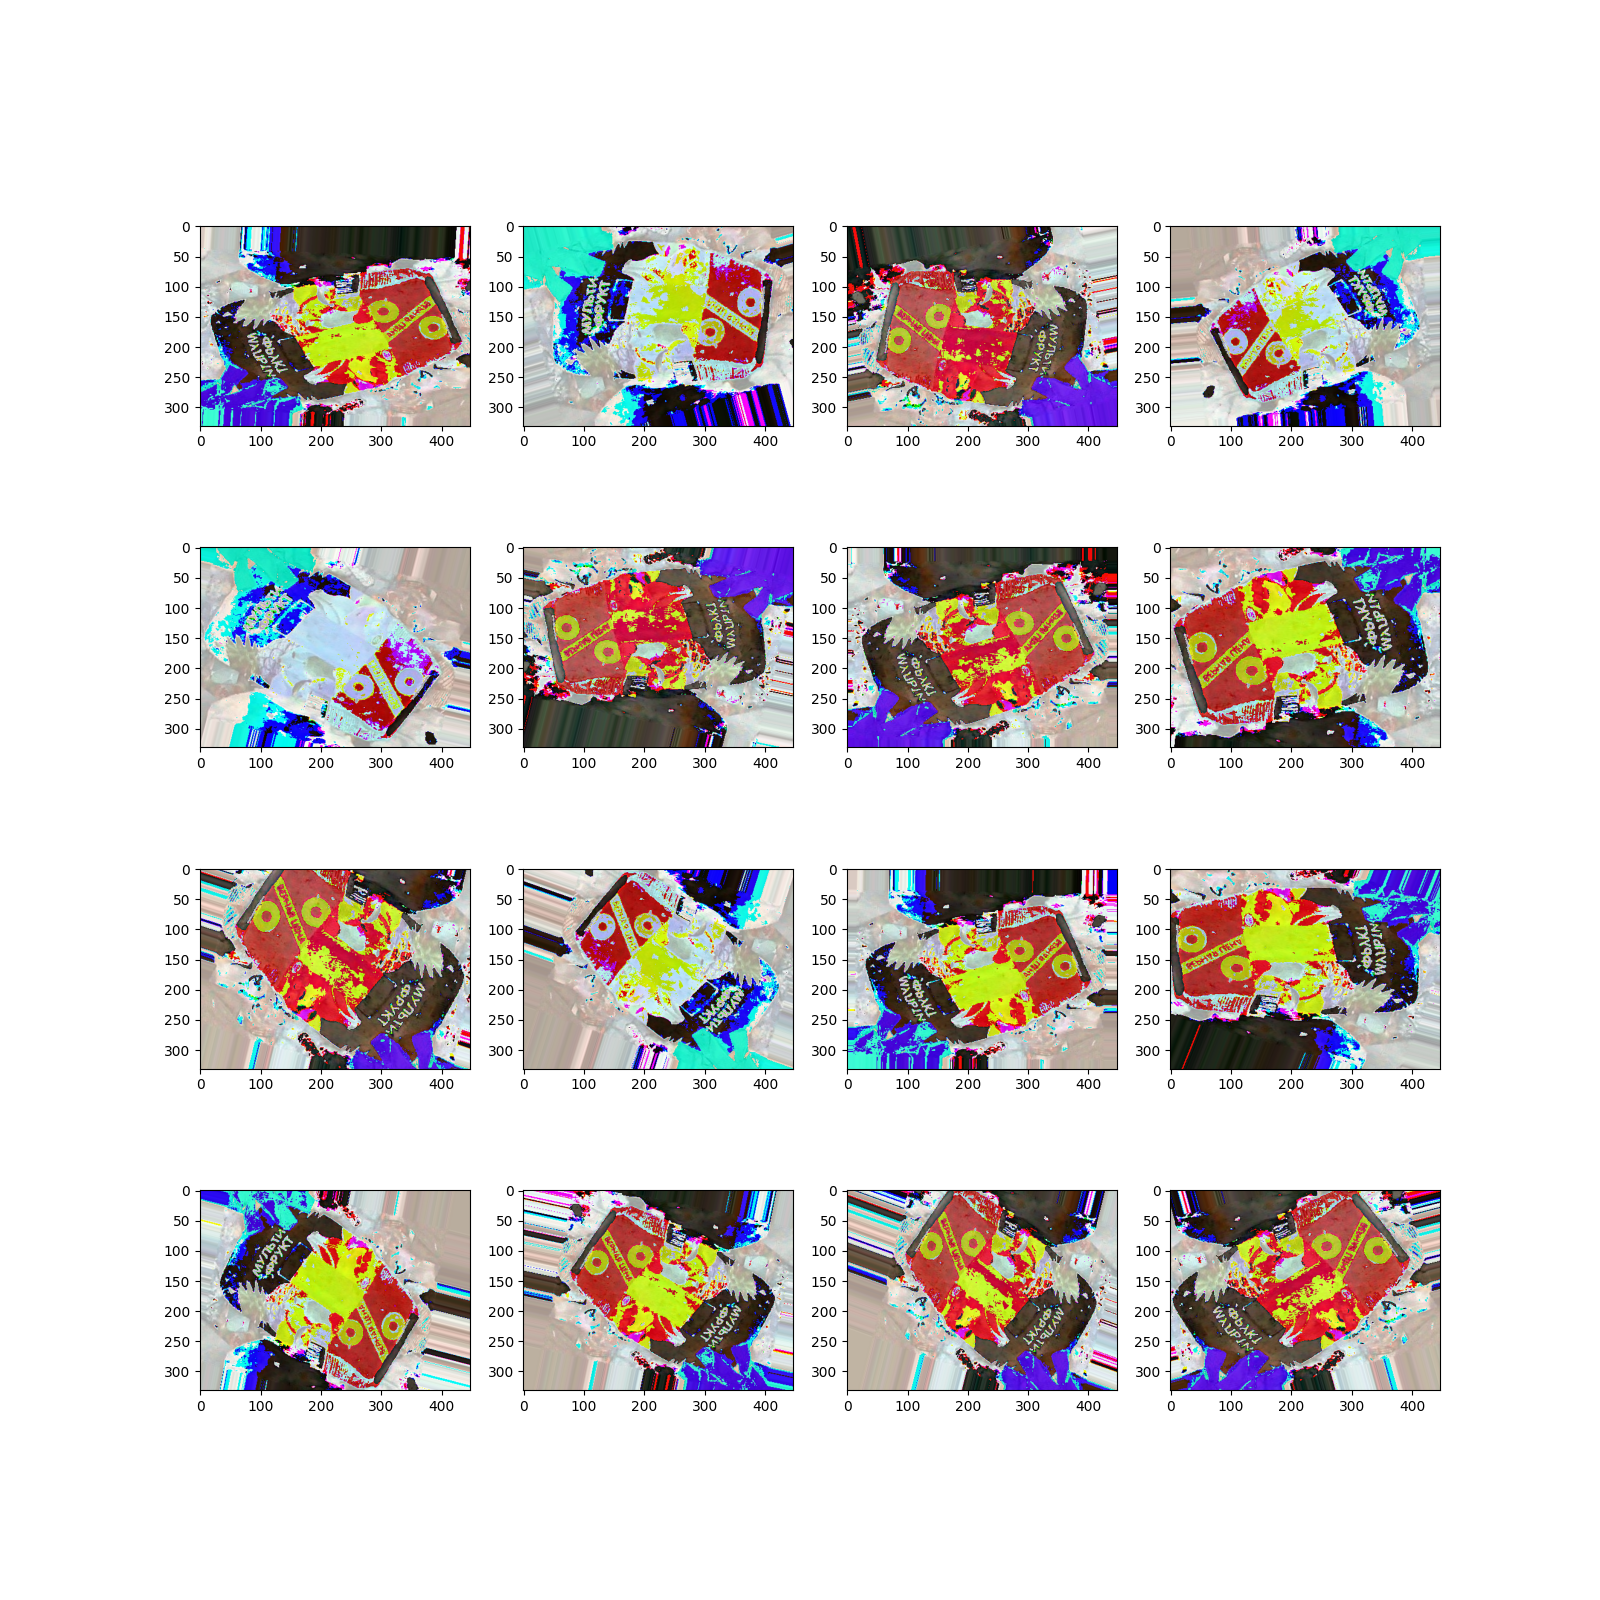
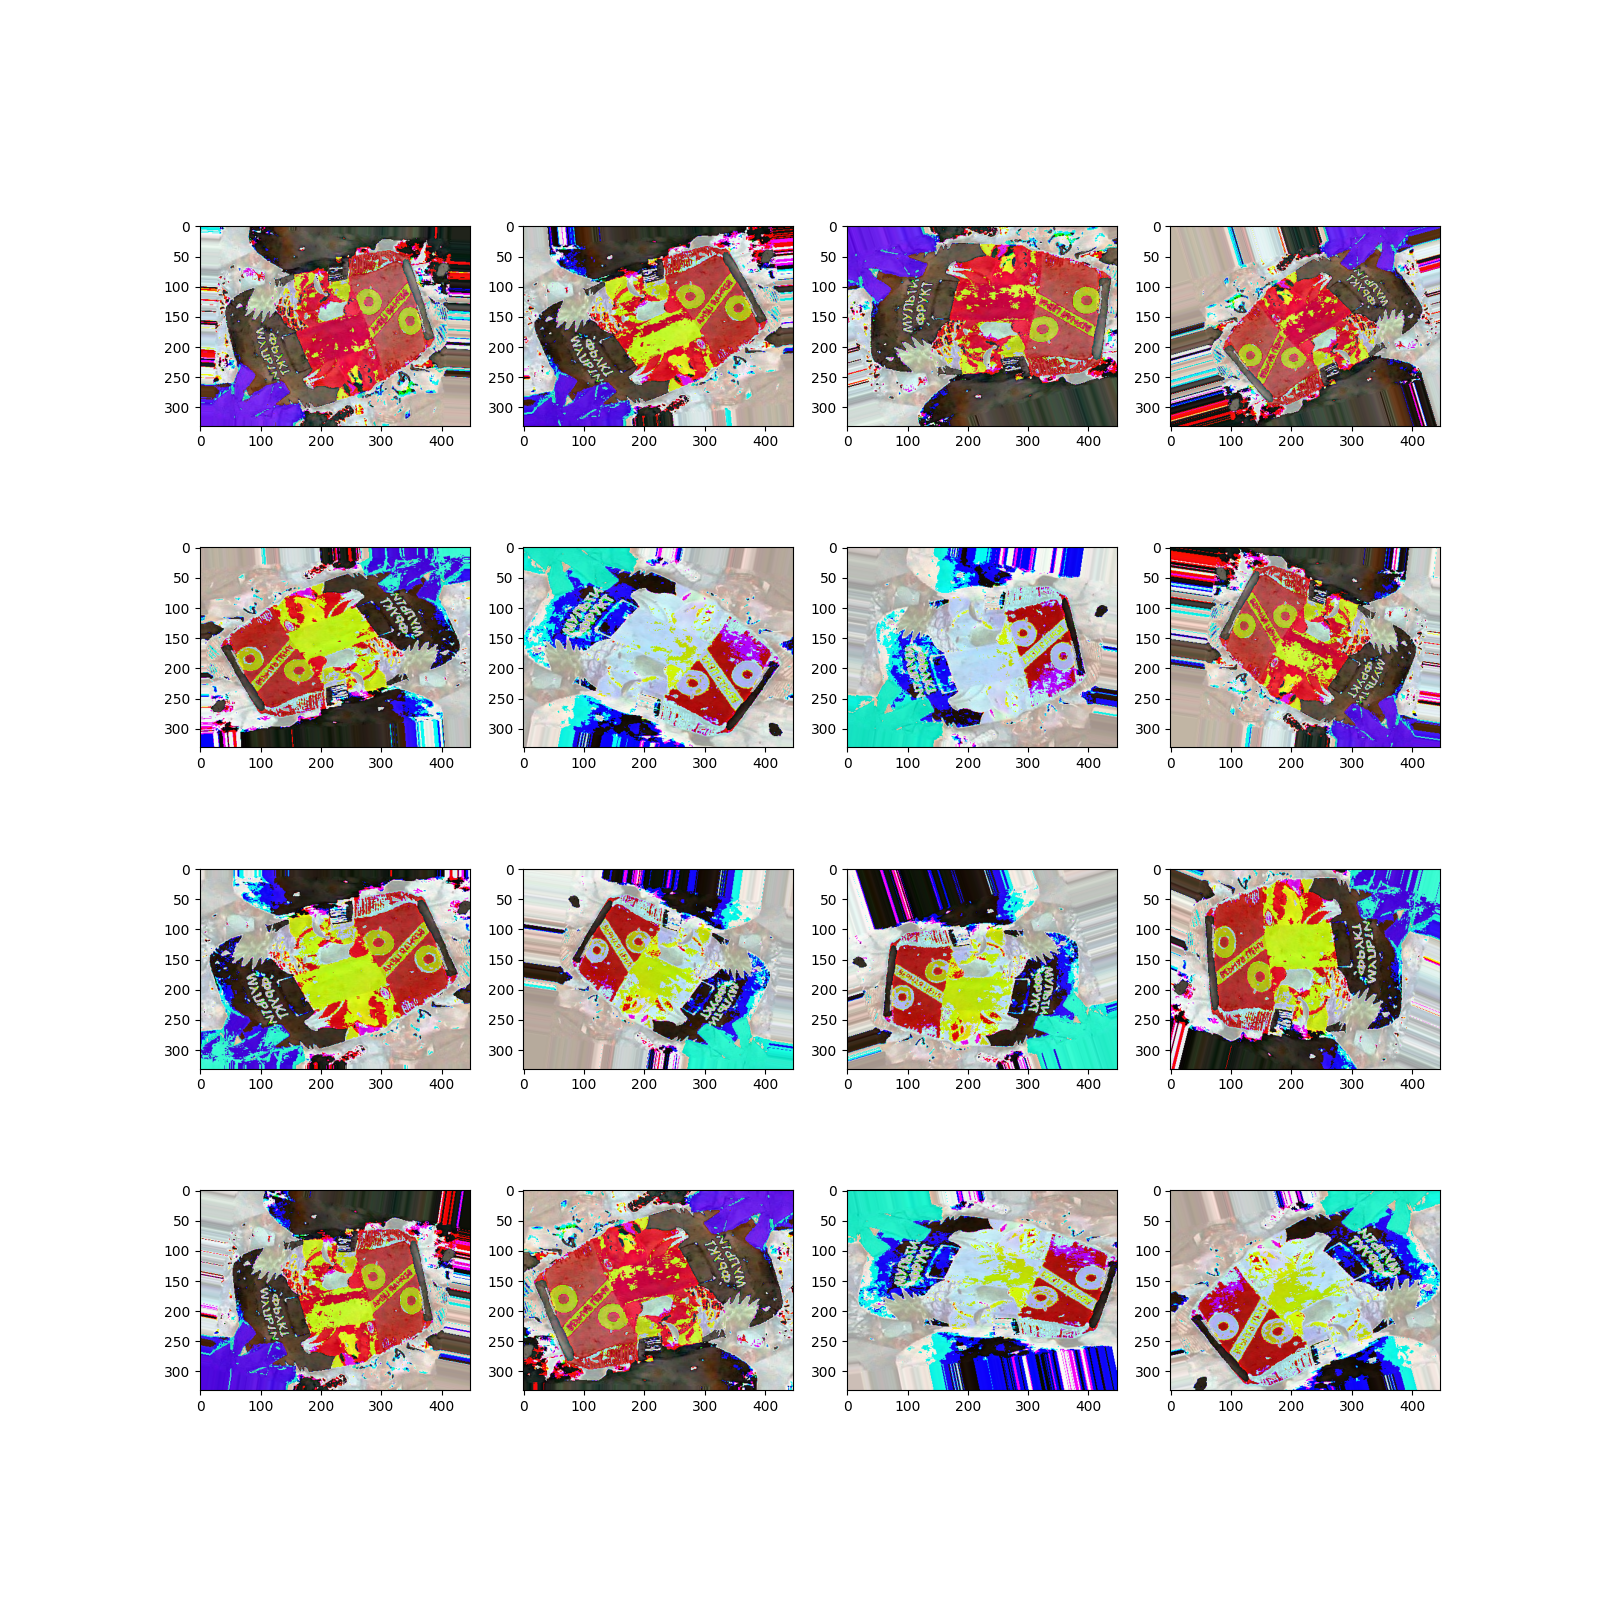
added runs, updated readme

diff --git a/README.md b/README.md
@@ -6,58 +6,128 @@ This assignment is the final project on the Visual Analytics course on the elect
 
 The code was created by me. However, code provided throughout the course has been reused and adapted for this project. Furthermore, some code from [WEBSITE] has been reused. 
 
-### Project description
-
-This project aims to apply the tools and methods taught in the course in a waste-recycling scenario. More specifically, a dataset from Kaggle, 'WaRP' (Waste Recycling Plant) has been used. I thought it would be interesting to apply image classification and computer vision tools to a real life problem to see if it could be a possible method for optimizing waste recycling. **skriv mere her, det er dårligt** .. 
-
-### Contents
-
-LAV PÆN OVERSIGT OVER REPO!!
+### Repository description
+This project aims to apply the tools and methods acquired in the Visual Analytics course to create a classifier which can distinguish between four different types of waste. The repository contains code to run a classifier using different levels and methods of augmentation as well as balanced vs unbalanced data. The motivation behind the project was due to an interest in applying image classification and computer vision to a real life problem such as waste recyling.
 
 
 ### Methods and contents
 
+#### Contents
+| Folder/File  | Contents| Description |
+| :---:   | :---: | :--- |
+| ```out```     |```balanced``` ```imbalanced``` | Contains the output of running the **classify.py** script. Main folder contains examples of augmented images at different levels, where the two subfolders contain the history plots and classification reports for running the model with different levels of augmentation. |
+| ```src```   | **classify.py** **data.py** **utils.py**| Contains the Python scripts to run a classifier on the WaRP dataset. **data.py** contains code to load, prepare and augment the data (using Keras ImageDataGenerator). **classify.py** contains code to train a classifier on the WaRP data. **utils.py** contains functions to plot model history and examples of augmented images.|
+|README.md| README.md | Description of the repository and how to use it. |
+|requirements.txt| requirements.txt| Packages required to run the code.|
+|run.sh| run.sh| Bash script for running the **classify.py** script, with already defined arguments.|
+|setup.sh|setup.sh|Bash script for setting up virtual environment for project|
+
 #### Data
 
 ##### Description of data
-The WaRP data was found on Kaggle, **insert link** The image classification data was used for this assignment. The data consists of 8823 images for training and **test_images** for testing. The original data contains 28 different classes, with 17 different categories of plastic bottles, three different types of glass bottles, four different types of detergent and two different types of cardboards. I thought it would be more useful in a real-life situation to use more *overall** classes for the waste. Thus, I decided to create 4 classes consisting of the 28 original subclasses. The contents of the classes are as follows:
+The WaRP data was found on Kaggle (https://www.kaggle.com/datasets/parohod/warp-waste-recycling-plant-dataset) The Kaggle page contains data for image segmentation, detection or classification. The classification data was used for this project. The data consists of *8823* color images for training and *1523* color images for testing. The original data contains 28 different classes of waste, with 17 different categories of plastic bottles, three different types of glass bottles, four different types of detergent, two different types of cardboard as well as cans and canisters. I thought it would be more useful in a real-life scenario to use more general and broad classes for the waste. Thus, I decided to create four new classes by merging the 28 original subclasses. The contents of the classes are as follows:
 
-**Cardboard**
-- juice-cardboard
-- milk-cardboard
+| New class  | Previous subclasses| Number of merged subclasses|
+| :---:   | :---: |  :---: |
+|Metal| *cans* | 1|
+|Cardboard|*juice-cardboard*, *milk-cardboard*|2 | 
+|Glass|*glass-dark*, *glass-green*, *glass-transp*| 3|
+|Plastic|*bottle-blue*, *bottle-blue-full*, *bottle-blue5l*, *bottle-blue5l-full*, *bottle-dark*, *bottle-dark-full*, *bottle-green*, *bottle-green-full*, *bottle-milk*, *bottle-milk-full*, *bottle-multicolor*, *bottle-multicolorv-full*, *bottle-oil*, *bottle-oil-full, bottle-transp, bottle-transp-full, bottle-yogurt, detergent-box, detergent-color, detergent-transparent, detergent-white, canister*| 22|
 
-**Glass**
-- glass-dark
-- glass-green
-- glass-transp
-
-**Metal**
-- Cans
-
-**Plastic**
-- All 17 categories of plastic bottles (subfolders starting with *bottle*)
-- All 4 detergent containers
-- Canisters
 
 ##### Acquire the data
-To reproduce the results in this repository, download the data here and unzip the file, which will be called 'archive'. Inside the zipped file, you will find several subfolders. Choose the one called 'Warp-C' and place it in the ```assignment4-WARP-classification``` folder. In order to create the desired four classes as explained above, some of the folders needs to be merged. To do so, run the ```move.sh``` script in the terminal **from the Warp-C folder**. I.e., your code should look like this:
+To reproduce the results in this repository, download the data here (https://www.kaggle.com/datasets/parohod/warp-waste-recycling-plant-dataset) and unzip the file, which will be called 'archive'. Inside the unzipped archive folder, you will find several subfolders. Choose the one called 'Warp-C' and place it in the ```assignment4-WARP-classification``` folder (i.e., the main folder/repository). In order to create the desired four classes as explained above, some of the folders needs to be merged. To do so, run the ```move.sh``` script in the terminal **from the Warp-C folder**. I.e., your code should look like this:
 
 ```
 assignment4-WARP-classification/Warp-C bash move.sh
-
 ```
 
-This will create two new folders called ```train``` and ```test```, which each contains the subfolders (i.e., the four new classes), ```cardboard```, ```glass```, ```metal``` and ```plastic```.
+This will create two new folders called ```train``` and ```test``` inside the ```Warp-C``` folder, which each contains the subfolders (i.e., the four new classes), ```cardboard```, ```glass```, ```metal``` and ```plastic``` with the images from the old subfolders as described above. This is the data that will be used for training the classifier. 
 
-SKRIVE HVOR MANGE DER ER I HVER SUBFOLDER
+##### Examples of training data
 
-"YOUR REPO SHOULD LOOK LIKE THIS".
 
-This is the data that will be used for training the classifier. 
+Your repository should look like this:
 
-### LAV EN BESKRIVELSE OVER HVORDAN DATAEN SER UD !!!!
+**assignment4-WaRP-classification (MAIN FOLDER)**
+out
+src
+README.md
+requirements.txt
+run.sh
+setup.sh
+Warp-C
+    --> train
+        --> cardboard
+        --> glass
+        --> metal
+        --> plastic
+    --> test
+        --> cardboard
+        --> glass
+        --> metal
+        --> plastic
+    --> train_crops
+    --> test_crops
+    --> move.sh
 
-```data.py``` contains code to construct ImageDataGenerators using the data from the ```train``` and ```test``` folder with different levels of data augmentation. 
+##### A note on the data
+There is a notable difference in the amount of samples in each of the categories. In the training data, **plastic** contains ___ samples, **write number of samples for train and test data!**. This could have a big influence on the training data, as the model would be prone to overfit on the classes with more samples. To account and test for this imbalance, the model can be run in a script that balances the data (by calculating class weights, thereby letting the prominent classes weigh less in the model) and one that does not. See **Usage** and **Results** for more on this issue.
 
-```classification.py``` contains code to train a Convolutional Neural Network which uses a pretrained model (VGG16) as a feature extractor and has two classification layers of size **SIZE** and **SIZE**. The results of the classification problem is saved in the ```out```folder. Due to the imbalanced nature of the data (see **Data** section), the script can be run with code that balances the data or code that does not. 
+#### Methods
 
+*The following section describes the methods used in the provided Python scripts.*
+
+**DataGenerators and augmentation**
+The code uses Kera's ImageDataGenerators to generate batches of data to feed the model. This relies less on your computer's memory, which makes it easier to run, and allows for real-time data augmentation when the model is fit. To prepare data to train the model, the training data is split into training and validation data with a 80/20 split. A seperate ImageDataGenerator is created for the training, validation and testing datasets. Furthermore, three different levels of augmentation can be applied to the data (see **Usage/Arguments** on how to run the code). 
+
+**When not applying any augmentation, the image is only preprocessed by converting the pixels from RGB to BGR and each color channel is zero-centered.** what? 
+
+**indsæt billede**
+
+For the 'low' level of augmentation, the same preprocessing as described above is applied, and horizontal and vertical flip is set to *True*, allowing for a simple augmentation.
+
+**indsæt billede**
+
+For the 'high' level of augmentation, several augmentation methods are defined. The images are preprocessed like the other levels, and horizontal and vertical flip is also set to true. Furthermore, a zoom and rotation range is defined as well as a brightness range.
+**indsæt billede**
+
+**Classification**
+A classifier is trained on the train, validation and test generators. The classifier uses a pretrained model, VGG16, without its classification layers. Instead, two new classification layers are added, of size 256 and 128. The model uses ReLU as its activation function, stochasitc gradient descent as the optimizer, and categorical crossentropy as the loss function. The output layer consists of the four classes representing the four different types of waste.
+
+
+### Usage
+All code for this project was designed to run on an Ubuntu ** operating system. 
+
+To reproduce the results in this repository, clone this repository using ```git clone```. To sort the data into the correct folders, run the ```move.sh``` script as explained in the **Data** section.
+
+**Setup**
+First, ensure that you have installed the **venv** package for Python(if not, run ```sudo apt-get update``` and ```sudo apt-get install python3-venv```). To set up the virtual environment, run ```bash setup.sh``` from the terminal, from the main folder.
+
+**Run code**
+To run the code, you can do the following:
+
+##### Run script(s) with predefined arguments
+
+From the terminal (and still in the main folder) type ```bash run.sh``` which activates the virtual environment and runs *six* classifier scripts, three scripts with different augmentation levels (none, low, medium) using balanced data, and three scripts with same three augmentations levels using imbalanced data. All six models are run with 10 epochs. The results from this run can be seen in the ```out``` folder and is described in the **Results** section.
+
+**NB:** The code may take several hours to run, depending on the processing power of your machine. 
+
+##### Define arguments yourself
+
+From the terminal, activate the virtual environment and run the script with the desired arguments:
+
+```
+# activate virtual environment
+source env/bin/activate
+
+# run script
+python3 src/classify.py --epochs <epochs> --balance <balance> --augmentation_level <augmentation_level> 
+```
+
+**Arguments:**
+- **epochs:** number of epochs to run the model for
+- **balance**: whether to balance the data by using weighted classes or run the model the original data. Must be either 'balanced' for using balanced data or 'imbalanced' to use imbalanced data.
+- **augmentation_level**: Level of augmentation to apply to the data. Must be 'none', 'low', or 'high'.
+
+### Results
